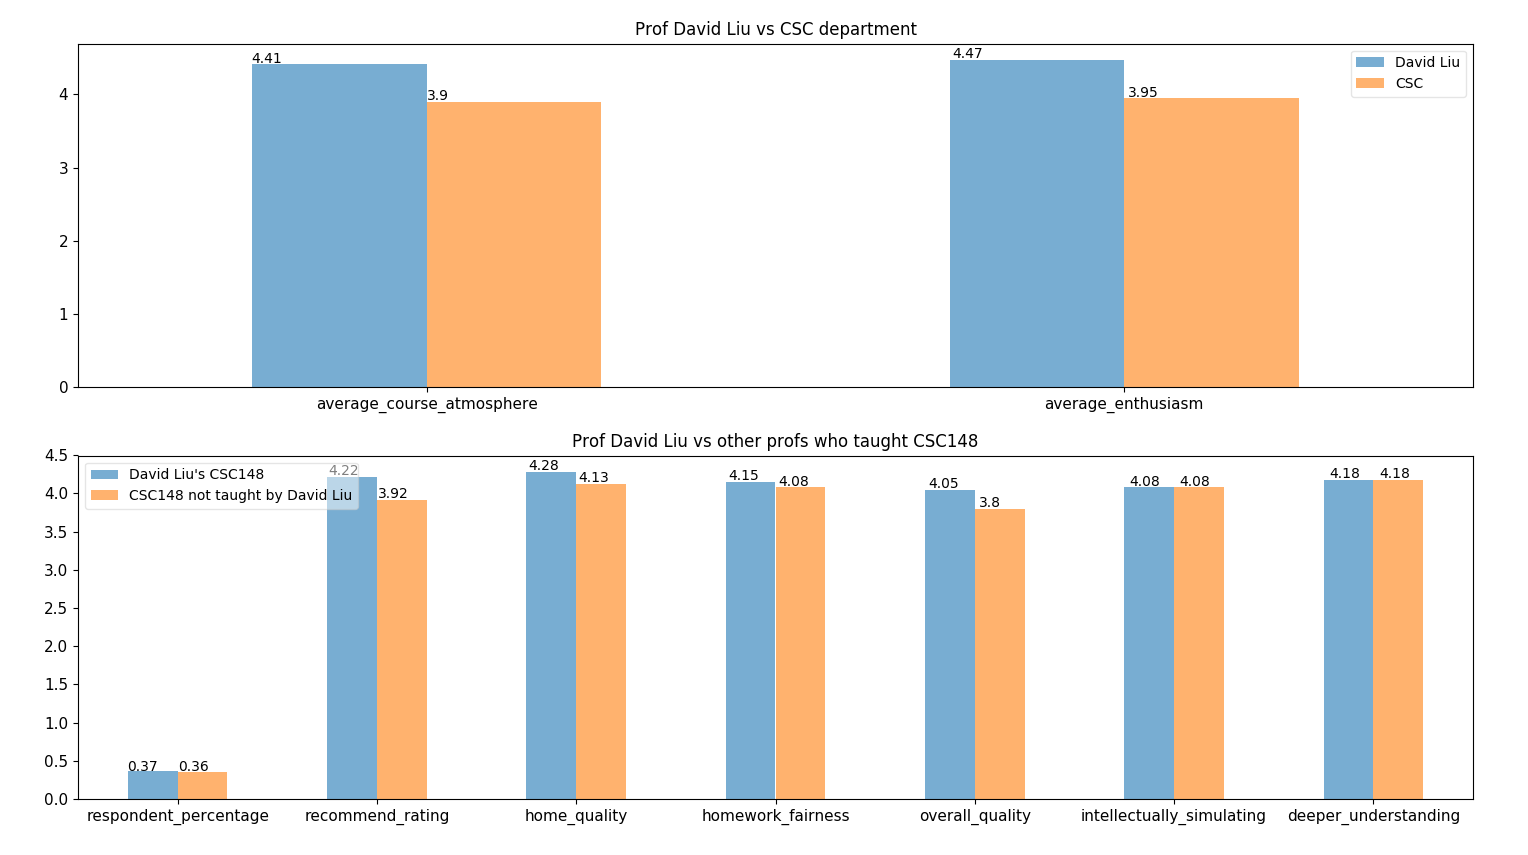
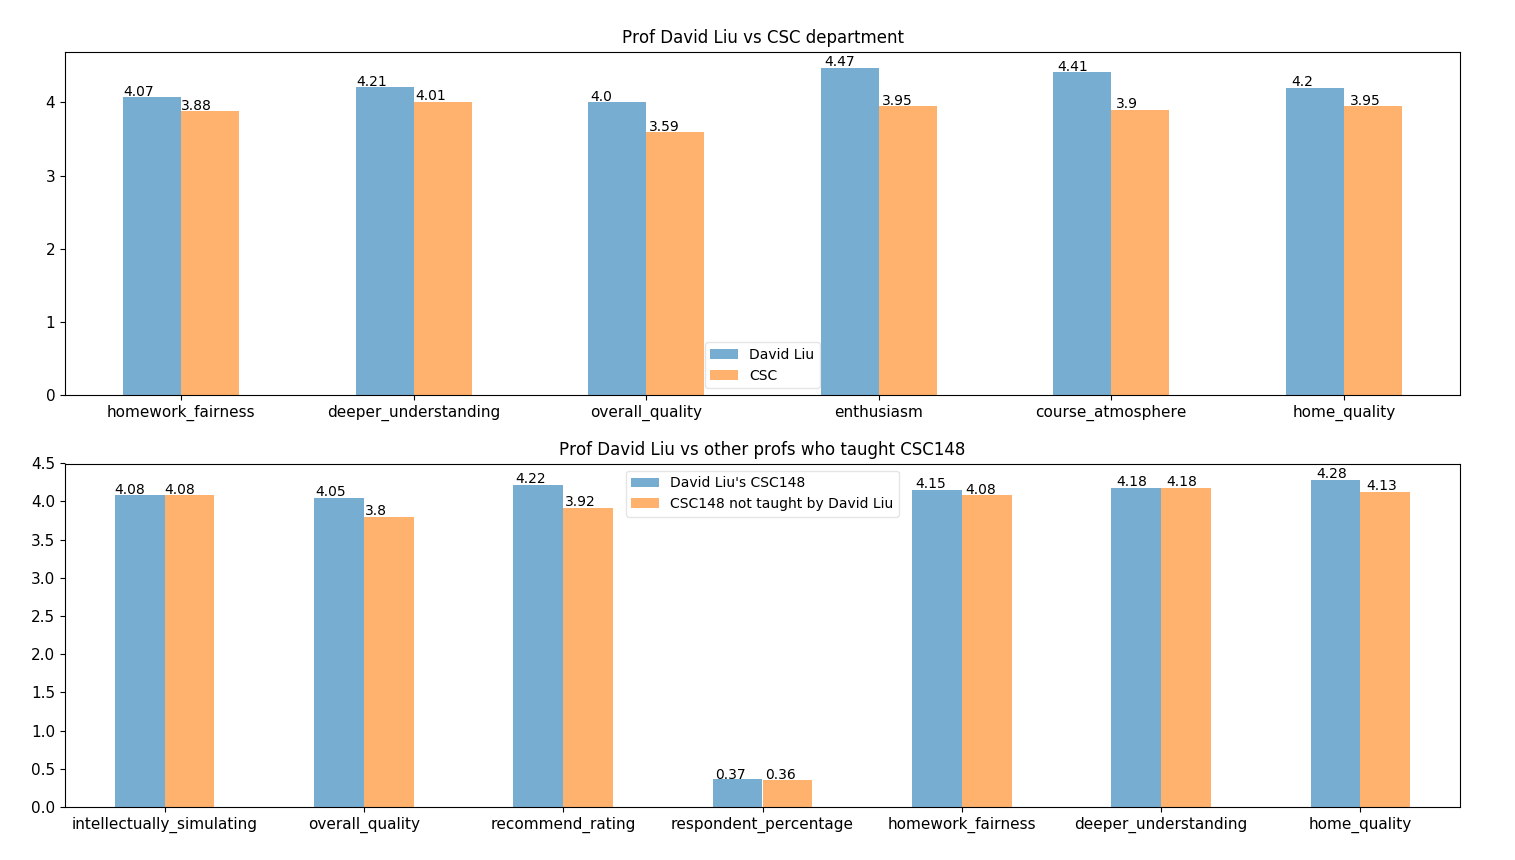
add new columns to the prof analyze diagram

diff --git a/tests/analyze_prof_test.py b/tests/analyze_prof_test.py
@@ -16,31 +16,43 @@ class Test(unittest.TestCase):
         self.db.close()
 
     def test_get_prof_quality_by_instructorFullName(self):
-        assert Database.get_prof_quality_by_instructorFullName(self.cursor, "David Liu") == {'average_enthusiasm': 4.47, 'average_course_atmosphere': 4.41}
+        assert Database.get_prof_quality_by_instructorFullName(self.cursor, "David Liu") == \
+                        {'home_quality': 4.2,\
+                        'deeper_understanding': 4.21,\
+                        'enthusiasm': 4.47,\
+                        'course_atmosphere': 4.41,\
+                        'homework_fairness': 4.07,\
+                        'overall_quality': 4.0}
 
     def test_get_avg_prof_quality_by_department(self):
-        assert Database.get_avg_prof_quality_by_department(self.cursor, "CSC") == {'average_course_atmosphere': 3.9, 'average_enthusiasm': 3.95}
+        assert Database.get_avg_prof_quality_by_department(self.cursor, "CSC") == \
+                        {'home_quality': 3.95,\
+                        'deeper_understanding': 4.01,\
+                        'enthusiasm': 3.95,\
+                        'course_atmosphere': 3.9,\
+                        'homework_fairness': 3.88,\
+                        'overall_quality': 3.59}
 
     def test_get_past_eval_by_instructorFullName_and_cID(self):
         assert Database.get_past_eval_by_instructorFullName_and_cID(self.cursor, "David Liu", "CSC148") == \
-                        {'avg_home_quality': 4.28,\
-                        'avg_respondent_percentage': 0.37,\
-                        'avg_recommend_rating': 4.22,\
-                        'avg_deeper_understanding': 4.18,\
-                        'avg_intellectually_simulating': 4.08,\
-                        'avg_homework_fairness': 4.15,\
-                        'avg_overall_quality': 4.05\
+                        {'home_quality': 4.28,\
+                        'respondent_percentage': 0.37,\
+                        'recommend_rating': 4.22,\
+                        'deeper_understanding': 4.18,\
+                        'intellectually_simulating': 4.08,\
+                        'homework_fairness': 4.15,\
+                        'overall_quality': 4.05\
                         }
 
     def test_get_past_eval_by_cID_excluding_one_prof(self):
         assert Database.get_past_eval_by_cID_excluding_one_prof(self.cursor, "David Liu", "CSC148") ==\
-                        {'avg_home_quality': 4.13,\
-                        'avg_respondent_percentage': 0.36,\
-                        'avg_recommend_rating': 3.92,\
-                        'avg_deeper_understanding': 4.18,\
-                        'avg_intellectually_simulating': 4.08,\
-                        'avg_homework_fairness': 4.08,\
-                        'avg_overall_quality': 3.8\
+                        {'home_quality': 4.13,\
+                        'respondent_percentage': 0.36,\
+                        'recommend_rating': 3.92,\
+                        'deeper_understanding': 4.18,\
+                        'intellectually_simulating': 4.08,\
+                        'homework_fairness': 4.08,\
+                        'overall_quality': 3.8\
                         }
 
 if __name__ == '__main__':

diff --git a/src/util/Database.py b/src/util/Database.py
@@ -189,13 +189,16 @@ def get_eval_data_by_cID_and_instructor(cursor, cID, instructor):
 def get_prof_quality_by_instructorFullName(dict_cursor, instructorFullName):
     """
     demo:
-    > get_prof_quality_by_fullname(cursor, "David Liu")
+    > get_prof_quality_by_fullname(dict_cursor, "David Liu")
     returns a dictionary
-    {'average_course_atmosphere': 4.41, 'average_enthusiasm': 4.47}
+    {'home_quality': 4.2, 'deeper_understanding': 4.21, 'enthusiasm': 4.47,
+    'course_atmosphere': 4.41, 'homework_fairness': 4.07, 'overall_quality': 4.0}
     """
 
-    sql = "SELECT round(avg(courseAtmosphere), 2) as average_course_atmosphere,\
-    round(avg(enthusiasm), 2) as average_enthusiasm from Eval where instructorFullName = %s"
+    sql = "SELECT round(avg(courseAtmosphere), 2) as course_atmosphere,\
+    round(avg(enthusiasm), 2) as enthusiasm, round(avg(overallQuality), 2) as overall_quality,\
+    round(avg(homeworkQuality), 2) as home_quality, round(avg(homeworkFairness),2) as homework_fairness,\
+    round(avg(deeperUnderstanding), 2) as deeper_understanding from Eval where instructorFullName = %s"
 
     dict_cursor.execute(sql, (instructorFullName))
 
@@ -205,15 +208,19 @@ def get_prof_quality_by_instructorFullName(dict_cursor, instructorFullName):
 def get_avg_prof_quality_by_department(dict_cursor, departmentID):
     """
     demo:
-    > get_avg_prof_quality_by_department(cursor, "CSC")
+    > get_avg_prof_quality_by_department(dict_cursor, "CSC")
     returns a dictionary
-    {'average_course_atmosphere': 3.9, 'average_enthusiasm': 3.95}
+    {'home_quality': 3.95, 'deeper_understanding': 4.01, 'enthusiasm': 3.95,
+    'course_atmosphere': 3.9, 'homework_fairness': 3.88, 'overall_quality':
+    3.59}
     -------------------------------------------------------------
     Note: departmentID is the first three char at the beginning of cID.
     """
 
-    sql = "SELECT round(avg(courseAtmosphere), 2) as average_course_atmosphere,\
-    round(avg(enthusiasm), 2) as average_enthusiasm from Eval where cID like %s"
+    sql = "SELECT round(avg(courseAtmosphere), 2) as course_atmosphere,\
+    round(avg(enthusiasm), 2) as enthusiasm, round(avg(overallQuality), 2) as overall_quality,\
+    round(avg(homeworkQuality), 2) as home_quality, round(avg(homeworkFairness),2) as homework_fairness,\
+    round(avg(deeperUnderstanding), 2) as deeper_understanding from Eval where cID like %s"
 
     dict_cursor.execute(sql, ("{}%".format(departmentID)))
 
